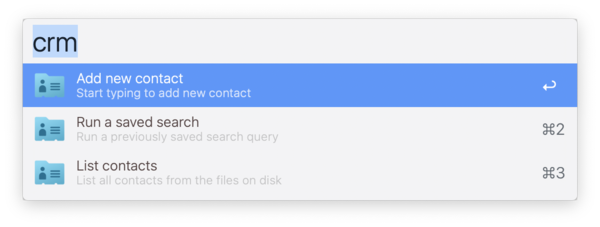
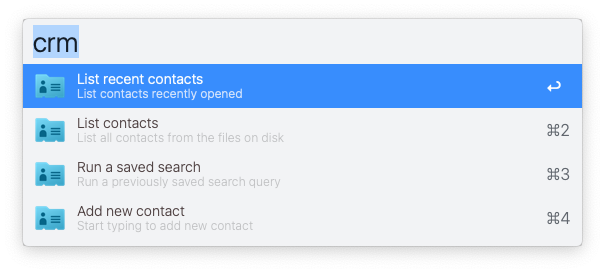
Added documentation for 'list recent contacts'

Changed region(s): [[0.03, 0.0925, 0.99, 0.8943], [0.9, 0.5242, 0.96, 0.6784], [0.9, 0.7401, 0.96, 0.8326]]

diff --git a/README.md b/README.md
@@ -117,6 +117,14 @@ Save any filtered contacts from above to a saved search.
 
 <kbd>⌘</kbd><kbd>↵</kbd> To remove this search
 
+### ▸ List recent contacts
+
+List the most recently opened contact files.
+
+![](assets/crmr.png)    
+
+<kbd>↵</kbd> To open selected contact file
+
 ---
 
 ### Tags & Icons
